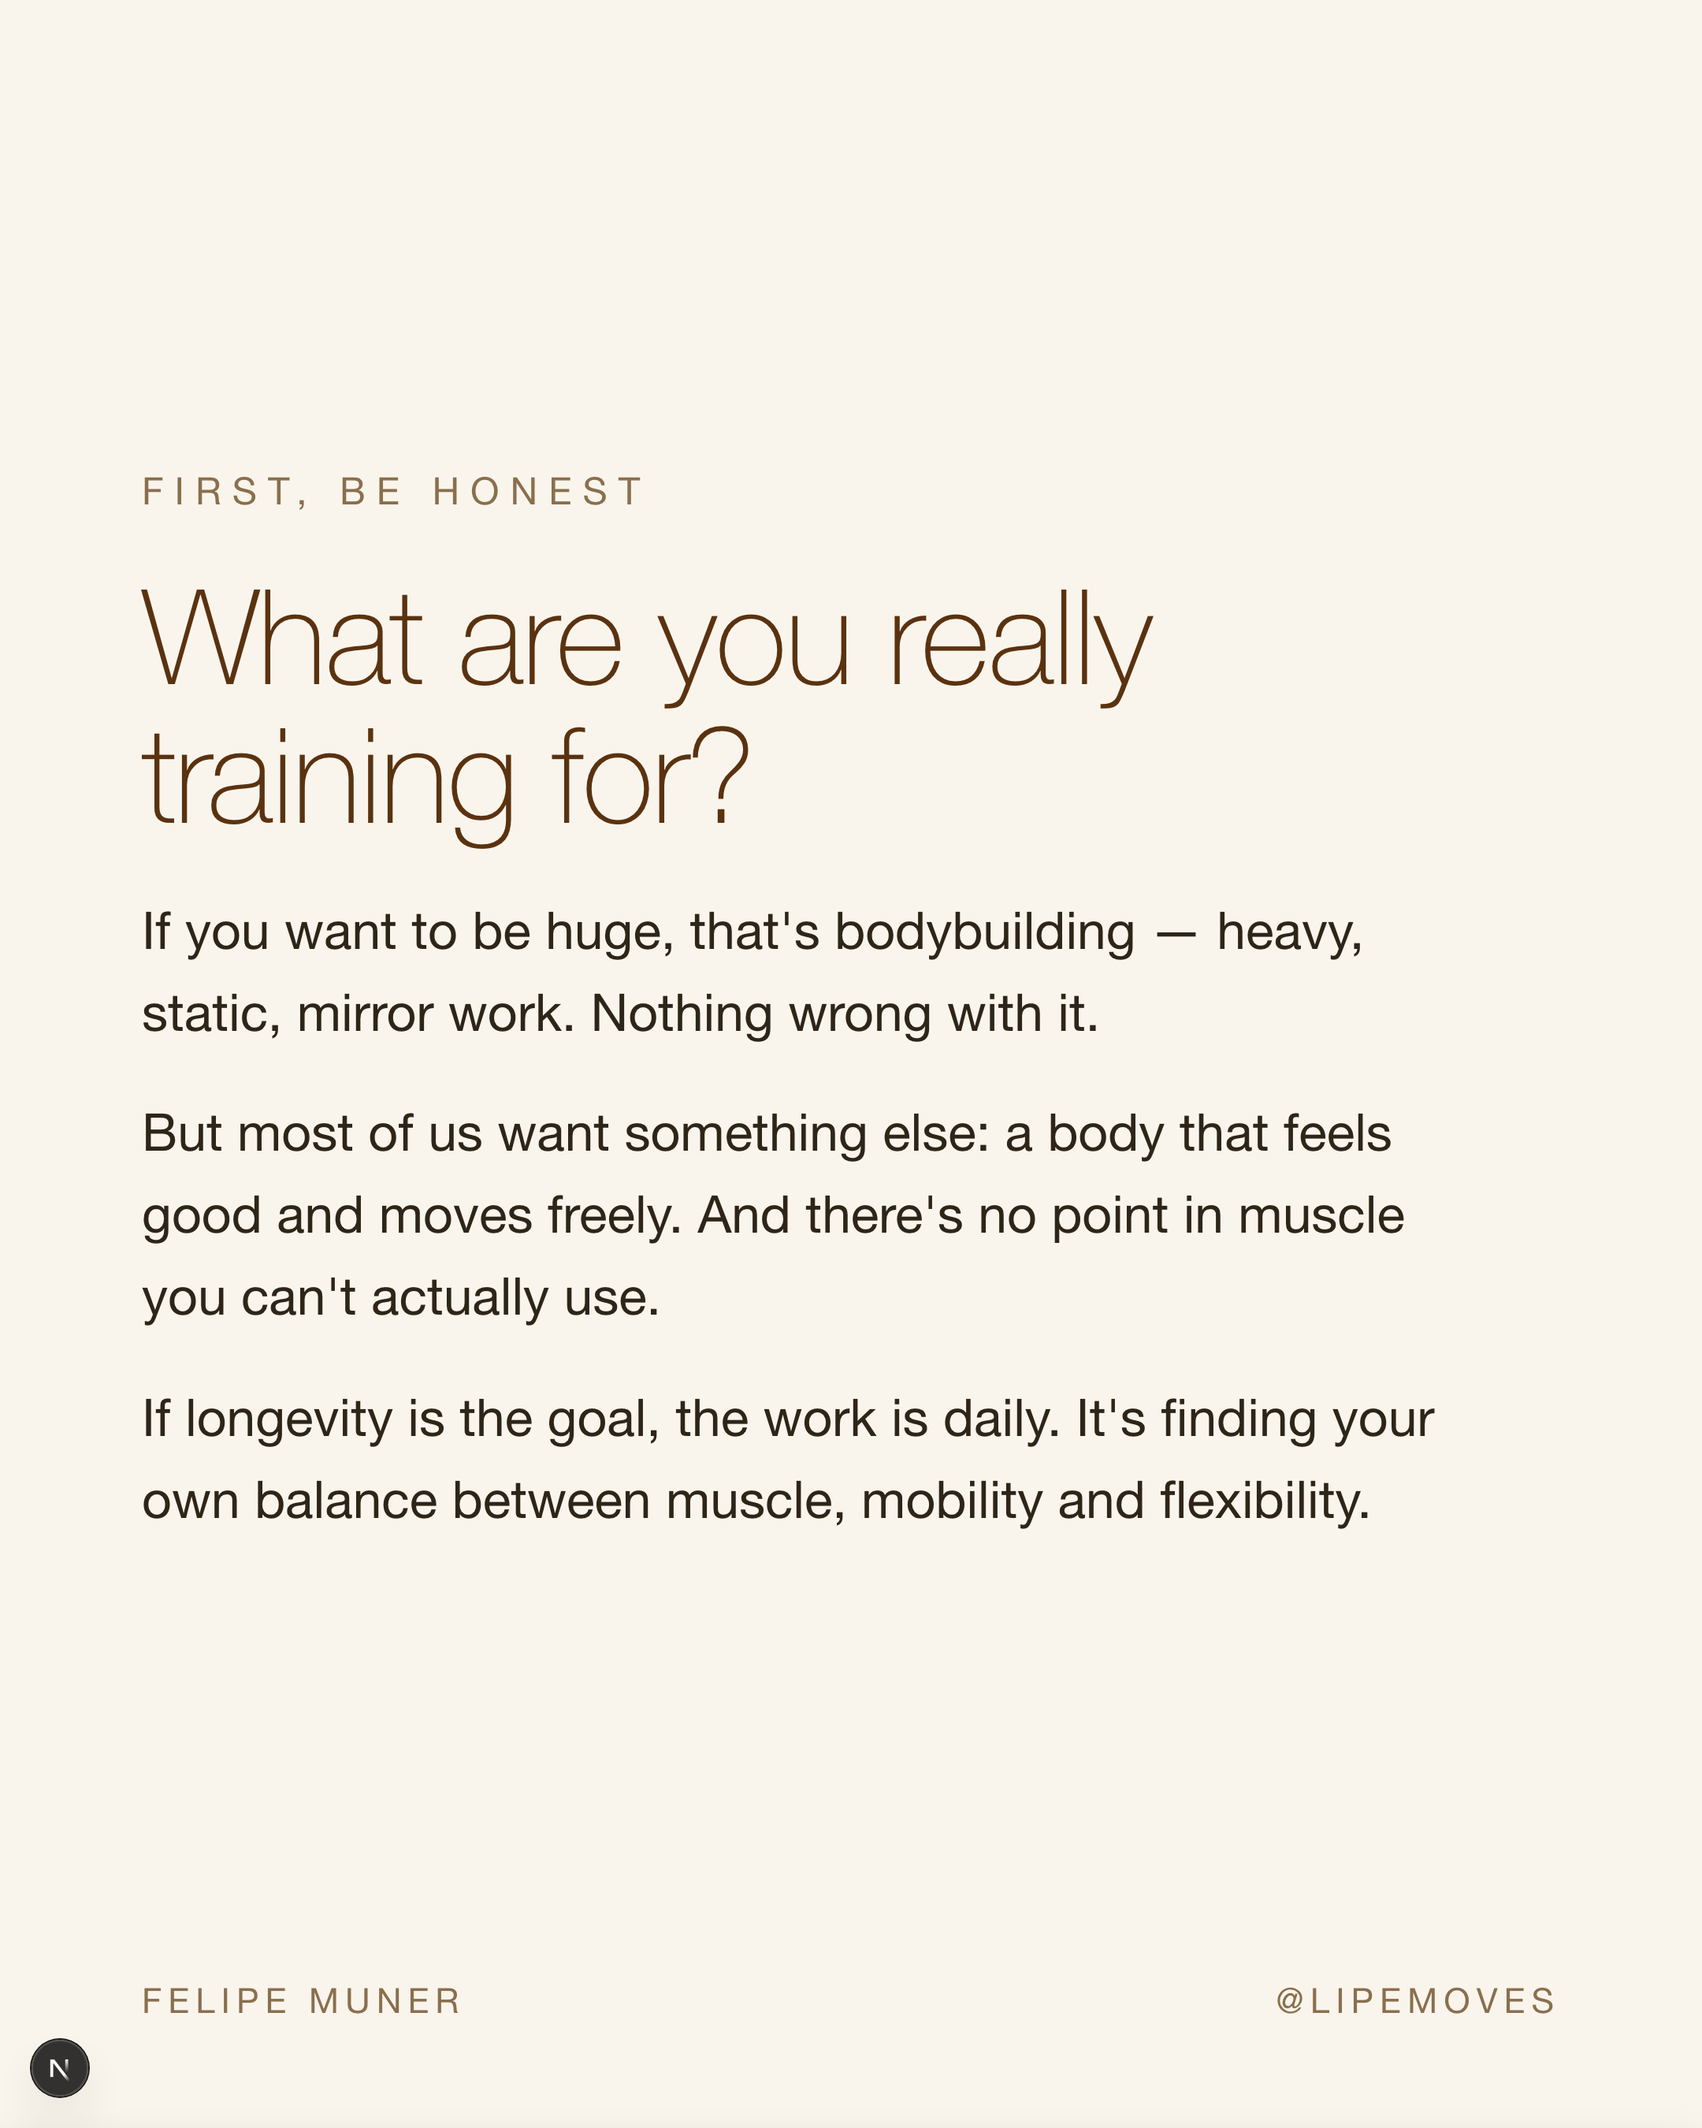
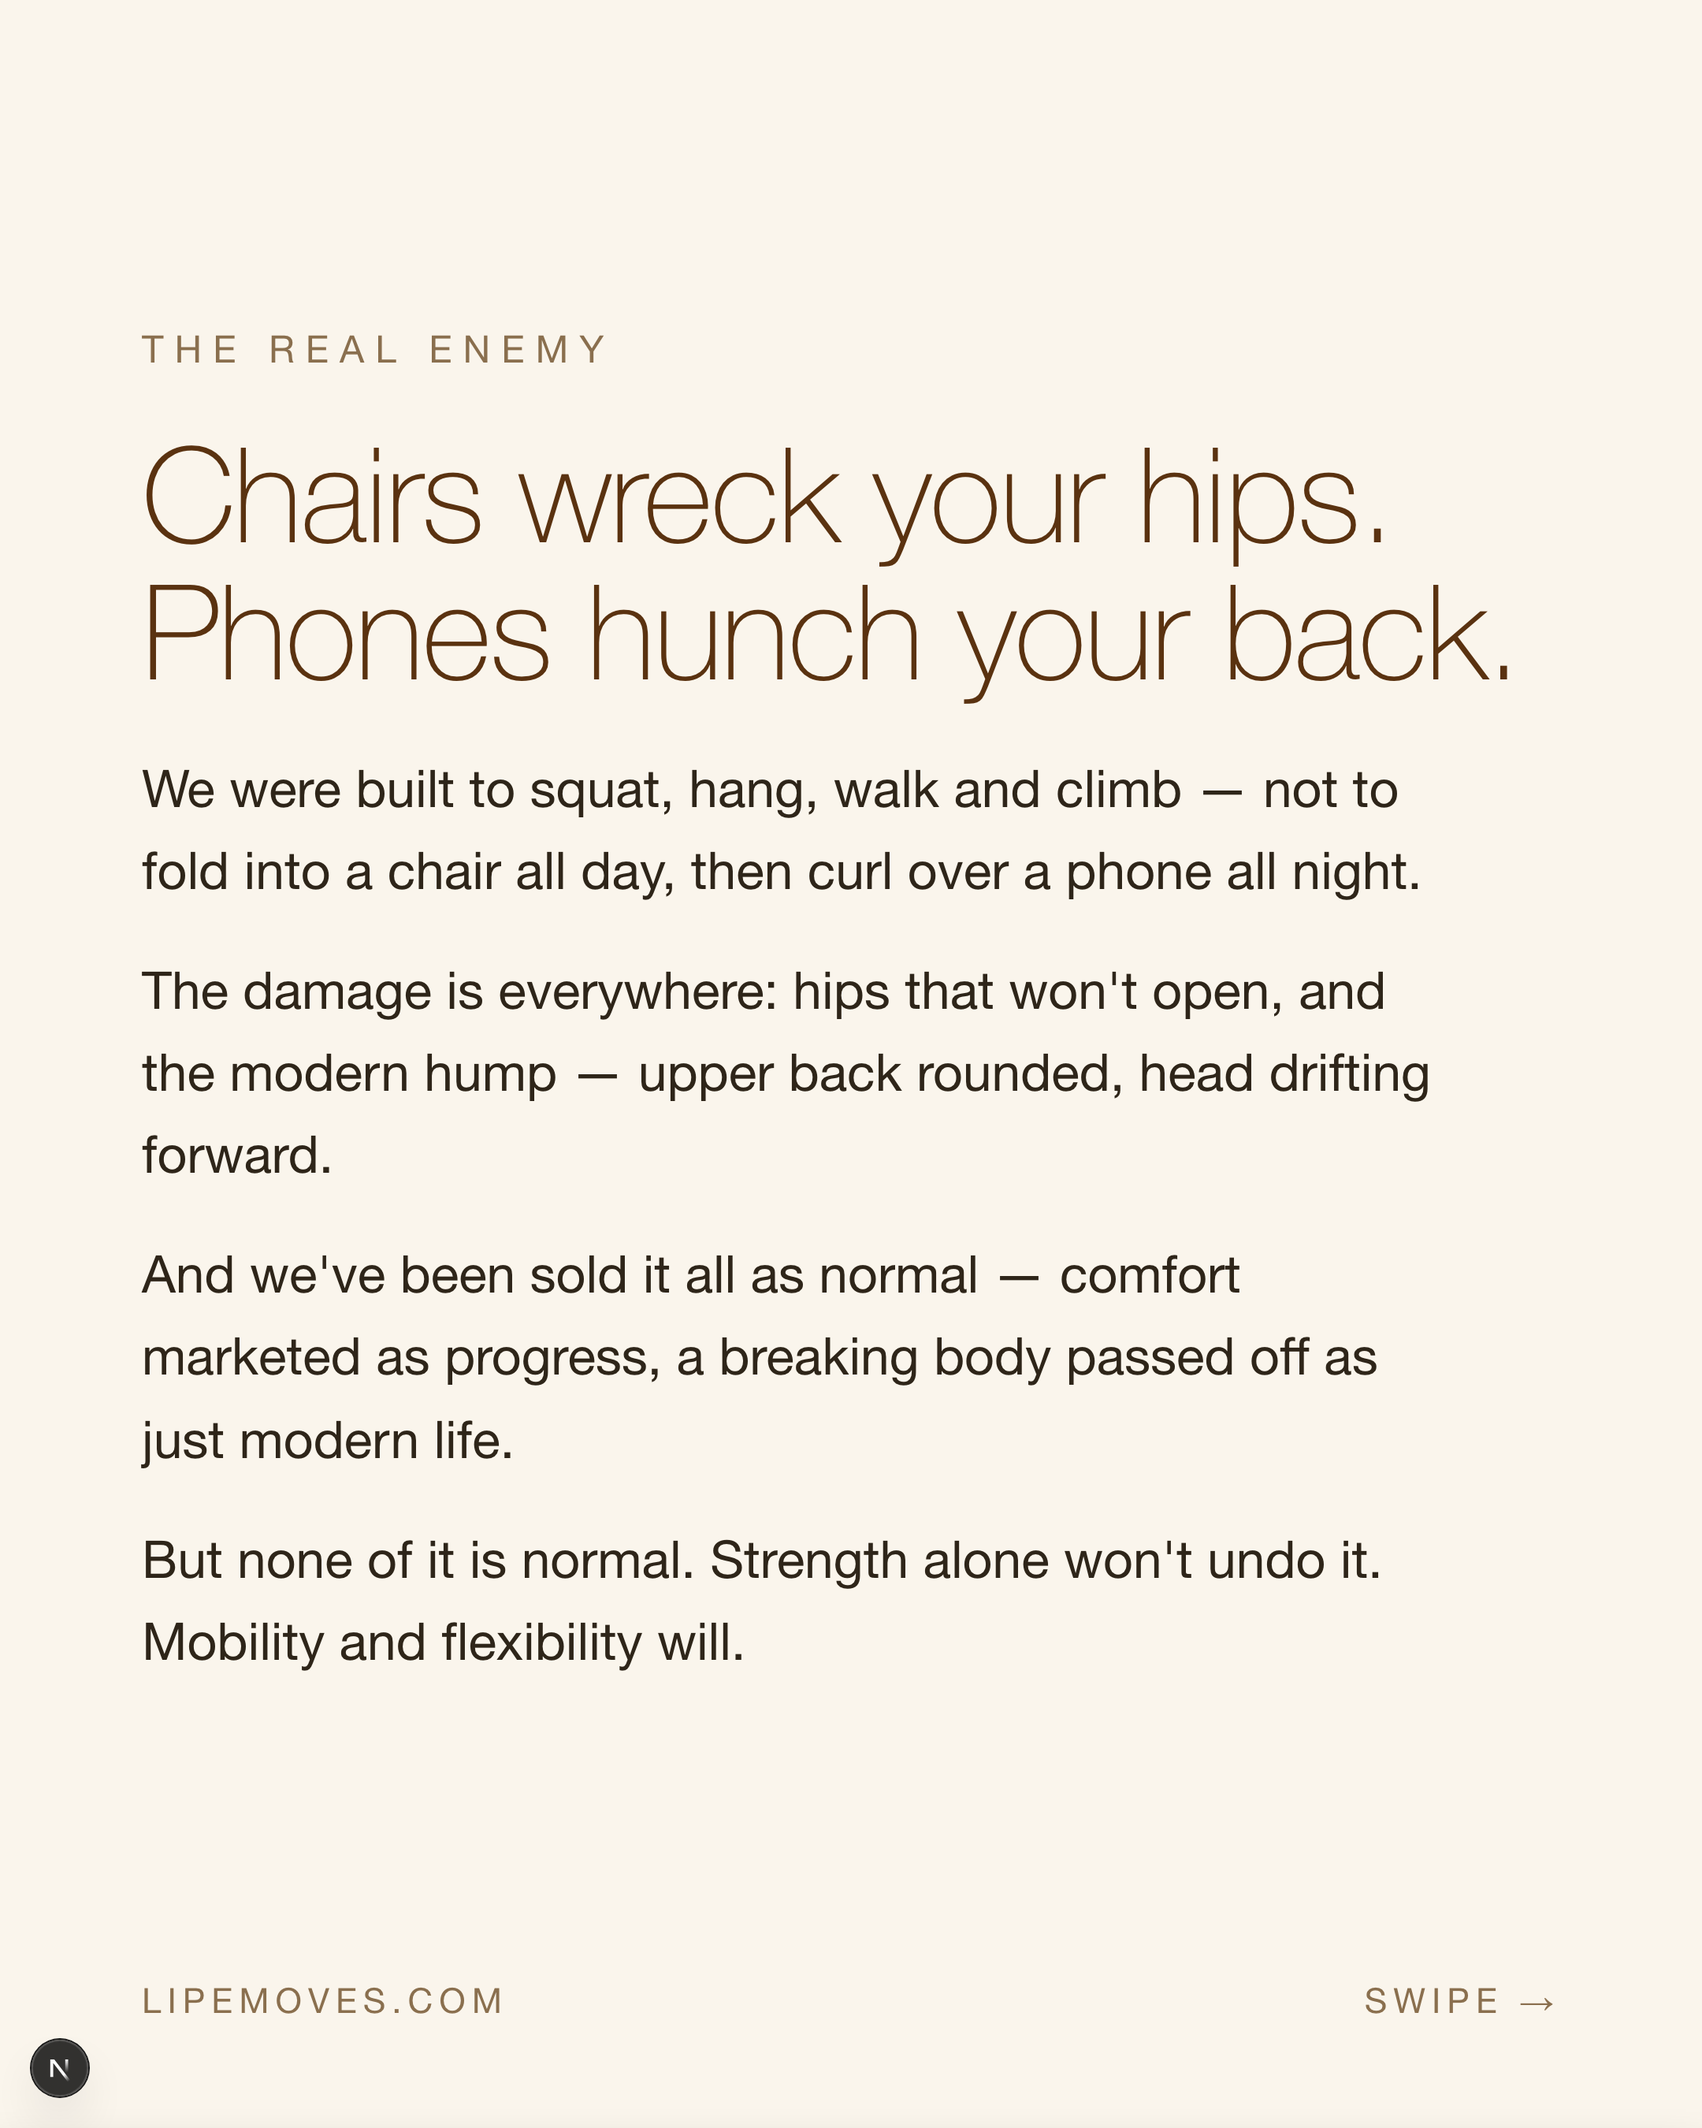
content(carousel): refresh longevity slides + renderer tweaks

diff --git a/content/carousels/longevity.ts b/content/carousels/longevity.ts
@@ -17,6 +17,8 @@ export type CarouselSlide = {
   kicker?: string // short italic line under the title
   body?: string // paragraphs separated by \n\n
   photo?: string // filename inside /public/ebooks/photos
+  focus?: string // CSS object-position for the photo, e.g. "center 60%"
+  photoRatio?: string // pillar photo row height, e.g. "61%" (default 46%)
   swipe?: boolean // show the "swipe →" hint (auto on for cover)
 }
 
@@ -29,7 +31,7 @@ export type CarouselContent = {
 
 export const longevity: CarouselContent = {
   brand: "FELIPE MUNER",
-  handle: "@lipemoves",
+  handle: "lipemoves.com",
   title: "Mobility · Flexibility · Muscle",
 
   slides: [
@@ -37,21 +39,29 @@ export const longevity: CarouselContent = {
     {
       kind: "cover",
       eyebrow: "Longevity",
-      title: "Everyone trains for the mirror.\nAlmost no one trains for 80.",
+      title: "Everyone trains for the mirror.\nAlmost no one trains to move for life.",
       kicker: "Mobility · Flexibility · Muscle",
-      photo: "2SN09046.jpg",
+      photo: "1SN01474.jpg",
     },
 
     // 2 — THE POINT
     {
       kind: "photo",
       eyebrow: "The real goal",
-      title: "What's the point of living to 90\nif you can't get up off the floor?",
-      body: "I don't want to be kept alive. I want to be alive.\n\nTo sit on the floor and get back up without thinking about it. To play with my grandkids and still move like myself. That's what I'm training for.",
-      photo: "2SN09105.jpg",
+      title: "What's the point of muscle\nif you can't move freely?",
+      body: "You can be strong and still stiff. Strong and stuck.\n\nMuscle with zero mobility or flexibility is just for show. I want to sit on the floor, reach overhead, play with my grandkids — and still move like myself, for as long as I live.",
+      photo: "GAB00148.jpg",
     },
 
-    // 3 — BE HONEST WITH YOURSELF
+    // 3 — THE MODERN ENEMY
+    {
+      kind: "text",
+      eyebrow: "The real enemy",
+      title: "Chairs wreck your hips.\nPhones hunch your back.",
+      body: "We were built to squat, hang, walk and climb — not to fold into a chair all day, then curl over a phone all night.\n\nThe damage is everywhere: hips that won't open, and the modern hump — upper back rounded, head drifting forward.\n\nAnd we've been sold it all as normal — comfort marketed as progress, a breaking body passed off as just modern life.\n\nBut none of it is normal. Strength alone won't undo it. Mobility and flexibility will.",
+    },
+
+    // 4 — BE HONEST WITH YOURSELF
     {
       kind: "text",
       eyebrow: "First, be honest",
@@ -59,7 +69,7 @@ export const longevity: CarouselContent = {
       body: "If you want to be huge, that's bodybuilding — heavy, static, mirror work. Nothing wrong with it.\n\nBut most of us want something else: a body that feels good and moves freely. And there's no point in muscle you can't actually use.\n\nIf longevity is the goal, the work is daily. It's finding your own balance between muscle, mobility and flexibility.",
     },
 
-    // 4 — THE THREE THINGS
+    // 5 — THE THREE THINGS
     {
       kind: "text",
       eyebrow: "It comes down to three things",
@@ -68,18 +78,20 @@ export const longevity: CarouselContent = {
         "I rebuilt my body after 30 — mobility first, then flexibility, then muscle. In that order. And this time it actually worked.",
     },
 
-    // 5 — MOBILITY
+    // 6 — MOBILITY
     {
       kind: "pillar",
       index: "01",
       eyebrow: "Pillar one",
       title: "Mobility",
       kicker: "Control through your range.",
-      body: "Strength means nothing if you can't get into the position. Mobility is your body actually owning its joints — squatting deep, reaching overhead, twisting, getting up off the floor with control.\n\nIt was the first thing I rebuilt, and it's the first thing to go if you ignore it.",
-      photo: "2SN07573.jpg",
+      body: "Strength means nothing if you can't get into the position. Mobility is owning your joints — squat deep, reach overhead, get up off the floor.",
+      photo: "GAB00162-2.jpg",
+      focus: "center 53%",
+      photoRatio: "58%",
     },
 
-    // 6 — FLEXIBILITY
+    // 7 — FLEXIBILITY
     {
       kind: "pillar",
       index: "02",
@@ -88,34 +100,28 @@ export const longevity: CarouselContent = {
       kicker: "The range itself.",
       body: "Mobility is control. Flexibility is having the room to move in the first place — hips and shoulders that open instead of locking up.\n\nThis is where yoga comes in. For me it's a 24-hour practice, for life. It keeps the body soft instead of stiff.",
       photo: "z_yoga.jpg",
+      focus: "center 65%",
     },
 
-    // 7 — MUSCLE
+    // 8 — MUSCLE
     {
       kind: "pillar",
       index: "03",
       eyebrow: "Pillar three",
       title: "Muscle",
       kicker: "Strength to own the range.",
-      body: "Now you protect it. Muscle is the armor around your joints and the engine that carries you up the stairs and up off the ground at 80.\n\nNot mirror muscle — real, usable strength, built through full range. The kind that keeps you independent for life.",
-      photo: "1SN03021.jpg",
-    },
-
-    // 8 — WHY THE KETTLEBELL
-    {
-      kind: "photo",
-      eyebrow: "The tool that does all three",
-      title: "Why the kettlebell",
-      body: "The weight sits off to one side and pulls. Your whole body has to answer from the other — bracing, balancing, holding it together on every rep.\n\nThat's the feeling I love: load on one side, my body counterbalancing from the other. Strength, mobility and control in one move. A mace or a club does the same — offset, alive, never static.",
-      photo: "z_kettlebell_rack.jpg",
+      body: "Now you protect it. Muscle is the armor around your joints and the engine that carries you up the stairs and up off the ground, decade after decade.\n\nNot mirror muscle — real, usable strength, built through full range. The kind that keeps you independent for life.",
+      photo: "IMG_7149.jpg",
+      focus: "center 71%",
+      photoRatio: "53%",
     },
 
     // 9 — CTA
     {
       kind: "cta",
-      eyebrow: "Build a body that lasts",
-      title: "Find your balance.",
-      body: "This is my path — you'll find your own. Follow along for daily movement, and grab my free Move Better guide: breath, food, movement and rest, in 20 minutes.\n\nI'm here to help you get there.",
+      eyebrow: "1-on-1 coaching",
+      title: "Train with me.",
+      body: "I coach a small number of people one-on-one — a plan built around your body, your goals and your life. We rebuild it in the right order: mobility, flexibility, then strength.\n\nNo generic programs. Just you, me, and the work that actually lasts.",
       kicker: "lipemoves.com",
     },
   ],

diff --git a/components/carousel/carousel-renderer.tsx b/components/carousel/carousel-renderer.tsx
@@ -29,6 +29,7 @@ const CAROUSEL_CSS = `
   letter-spacing: -1px; white-space: pre-line;
 }
 .carousel-root p { white-space: pre-line; }
+.carousel-root a { color: inherit; text-decoration: none; }
 
 /* Footer brand + handle, present on every slide */
 .carousel-root .foot {
@@ -49,8 +50,8 @@ const CAROUSEL_CSS = `
   position: absolute; left: 90px; right: 90px; bottom: 150px; color: #fff;
 }
 .carousel-root .photo-slide .eyebrow { color: rgba(255,255,255,.78); margin-bottom: 24px; }
-.carousel-root .photo-slide h1 { color: #fff; font-size: 78px; line-height: 1.04; margin-bottom: 26px; }
-.carousel-root .photo-slide h2 { color: #fff; font-size: 70px; line-height: 1.05; margin-bottom: 26px; }
+.carousel-root .photo-slide h1 { color: #fff; font-size: 54px; line-height: 1.12; margin-bottom: 26px; }
+.carousel-root .photo-slide h2 { color: #fff; font-size: 54px; line-height: 1.12; margin-bottom: 26px; }
 .carousel-root .photo-slide .kicker {
   font-family: var(--head); font-size: 30px; letter-spacing: 2px; color: rgba(255,255,255,.92); font-weight: 300;
 }
@@ -72,14 +73,14 @@ const CAROUSEL_CSS = `
 .carousel-root .text-slide p + p { margin-top: 24px; }
 
 /* ---- PILLAR SLIDES (cream, big number) ---- */
-.carousel-root .pillar-slide { display: grid; grid-template-rows: 46% auto; height: 100%; }
+.carousel-root .pillar-slide { display: grid; grid-template-rows: 46% 1fr; }
 .carousel-root .pillar-slide .photo { overflow: hidden; position: relative; }
 .carousel-root .pillar-slide .photo img { object-position: center 35%; }
 .carousel-root .pillar-slide .photo .num {
   position: absolute; right: 44px; bottom: -10px; font-family: var(--head); font-weight: 200;
   font-size: 200px; line-height: 1; color: #fff; opacity: .92; text-shadow: 0 2px 24px rgba(0,0,0,.4);
 }
-.carousel-root .pillar-slide .body { padding: 56px 90px 200px; }
+.carousel-root .pillar-slide .body { padding: 52px 90px 130px; }
 .carousel-root .pillar-slide .eyebrow { margin-bottom: 16px; }
 .carousel-root .pillar-slide h2 { font-size: 78px; line-height: 1; margin-bottom: 10px; }
 .carousel-root .pillar-slide .kicker {
@@ -115,18 +116,20 @@ function photoUrl(file: string) {
 }
 
 function Foot({
-  brand,
-  handle,
+  left,
+  right,
   swipe,
 }: {
-  brand: string
-  handle: string
+  left: string
+  right: string
   swipe?: boolean
 }) {
   return (
     <div className="foot">
-      <span>{brand}</span>
-      {swipe ? <span className="swipe">Swipe →</span> : <span>{handle}</span>}
+      <span>
+        <a href="https://lipemoves.com" target="_blank" rel="noopener noreferrer">{left}</a>
+      </span>
+      {swipe ? <span className="swipe">Swipe →</span> : <span>{right}</span>}
     </div>
   )
 }
@@ -135,7 +138,7 @@ export function CarouselRenderer({ content: c }: { content: CarouselContent }) {
   const slides = c.slides.map((s, i) => {
     const key = `slide-${i}`
     const isCover = s.kind === "cover"
-    const swipe = s.swipe ?? isCover
+    const swipe = s.swipe ?? (s.kind !== "cta")
 
     if (s.kind === "cover" || s.kind === "photo") {
       return (
@@ -152,16 +155,27 @@ export function CarouselRenderer({ content: c }: { content: CarouselContent }) {
             {s.kicker && <div className="kicker">{s.kicker}</div>}
             {paragraphs(s.body)}
           </div>
-          <Foot brand={c.brand} handle={c.handle} swipe={swipe} />
+          <Foot left={c.handle} right={c.brand} swipe={swipe} />
         </section>
       )
     }
 
     if (s.kind === "pillar") {
       return (
-        <section key={key} className="slide pillar-slide" data-slide={i + 1}>
+        <section
+          key={key}
+          className="slide pillar-slide"
+          data-slide={i + 1}
+          style={s.photoRatio ? { gridTemplateRows: `${s.photoRatio} 1fr` } : undefined}
+        >
           <div className="photo">
-            {s.photo && <img src={photoUrl(s.photo)} alt="" />}
+            {s.photo && (
+              <img
+                src={photoUrl(s.photo)}
+                alt=""
+                style={s.focus ? { objectPosition: s.focus } : undefined}
+              />
+            )}
             {s.index && <span className="num">{s.index}</span>}
           </div>
           <div className="body">
@@ -170,7 +184,7 @@ export function CarouselRenderer({ content: c }: { content: CarouselContent }) {
             {s.kicker && <div className="kicker">{s.kicker}</div>}
             {paragraphs(s.body)}
           </div>
-          <Foot brand={c.brand} handle={c.handle} swipe={swipe} />
+          <Foot left={c.handle} right={c.brand} swipe={swipe} />
         </section>
       )
     }
@@ -181,8 +195,12 @@ export function CarouselRenderer({ content: c }: { content: CarouselContent }) {
           {s.eyebrow && <div className="eyebrow">{s.eyebrow}</div>}
           <h2>{s.title}</h2>
           {paragraphs(s.body)}
-          {s.kicker && <div className="kicker">{s.kicker}</div>}
-          <Foot brand={c.brand} handle={c.handle} swipe={false} />
+          {s.kicker && (
+            <div className="kicker">
+              <a href="https://lipemoves.com" target="_blank" rel="noopener noreferrer">{s.kicker}</a>
+            </div>
+          )}
+          <Foot left={c.handle} right={c.brand} swipe={swipe} />
         </section>
       )
     }
@@ -194,7 +212,7 @@ export function CarouselRenderer({ content: c }: { content: CarouselContent }) {
         <h2>{s.title}</h2>
         {s.kicker && <div className="kicker">{s.kicker}</div>}
         {paragraphs(s.body)}
-        <Foot brand={c.brand} handle={c.handle} swipe={swipe} />
+        <Foot left={c.handle} right={c.brand} swipe={swipe} />
       </section>
     )
   })
